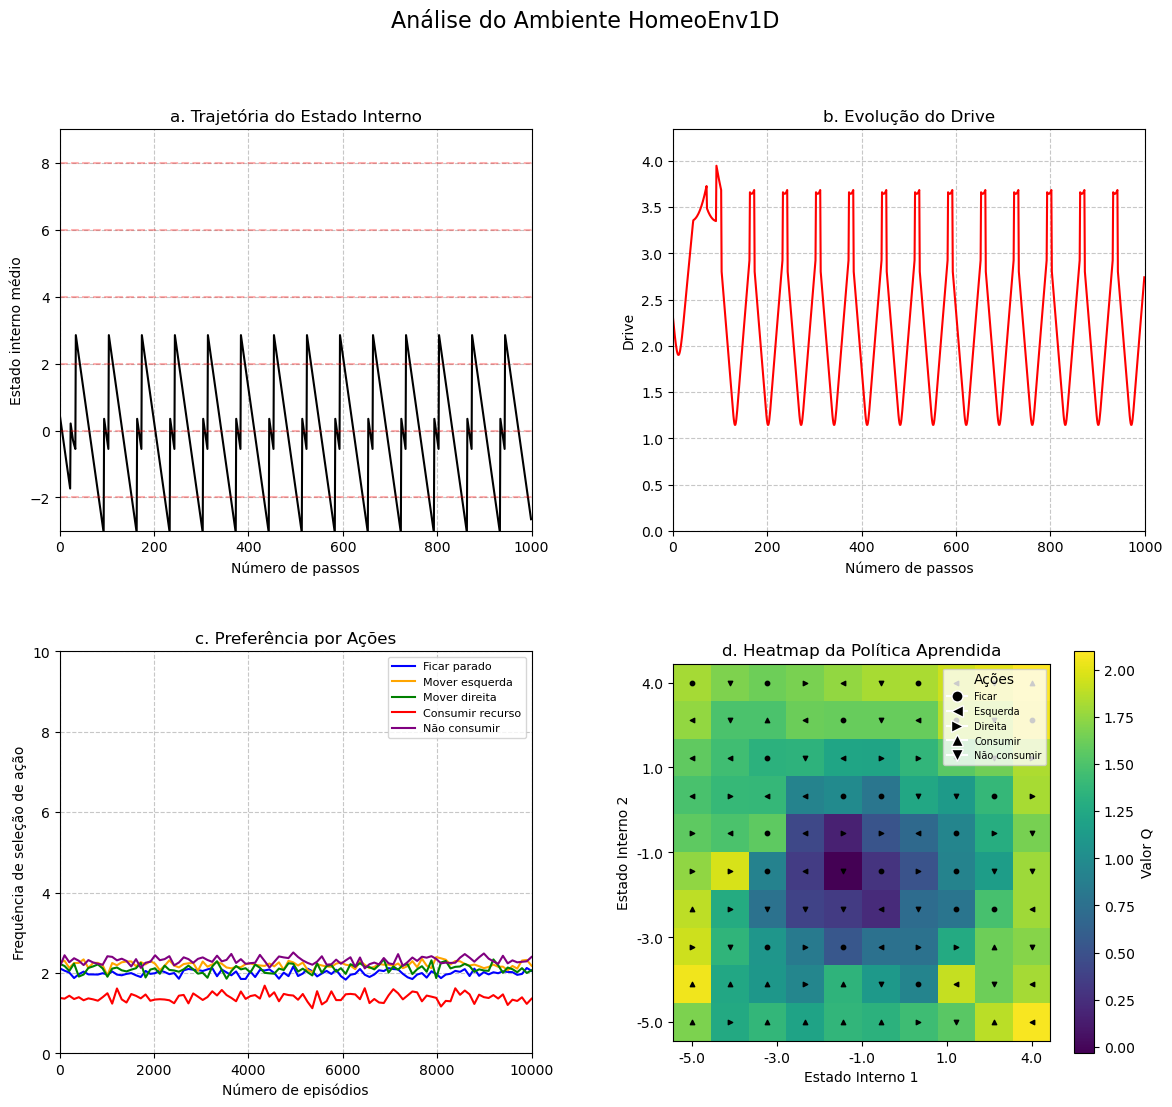
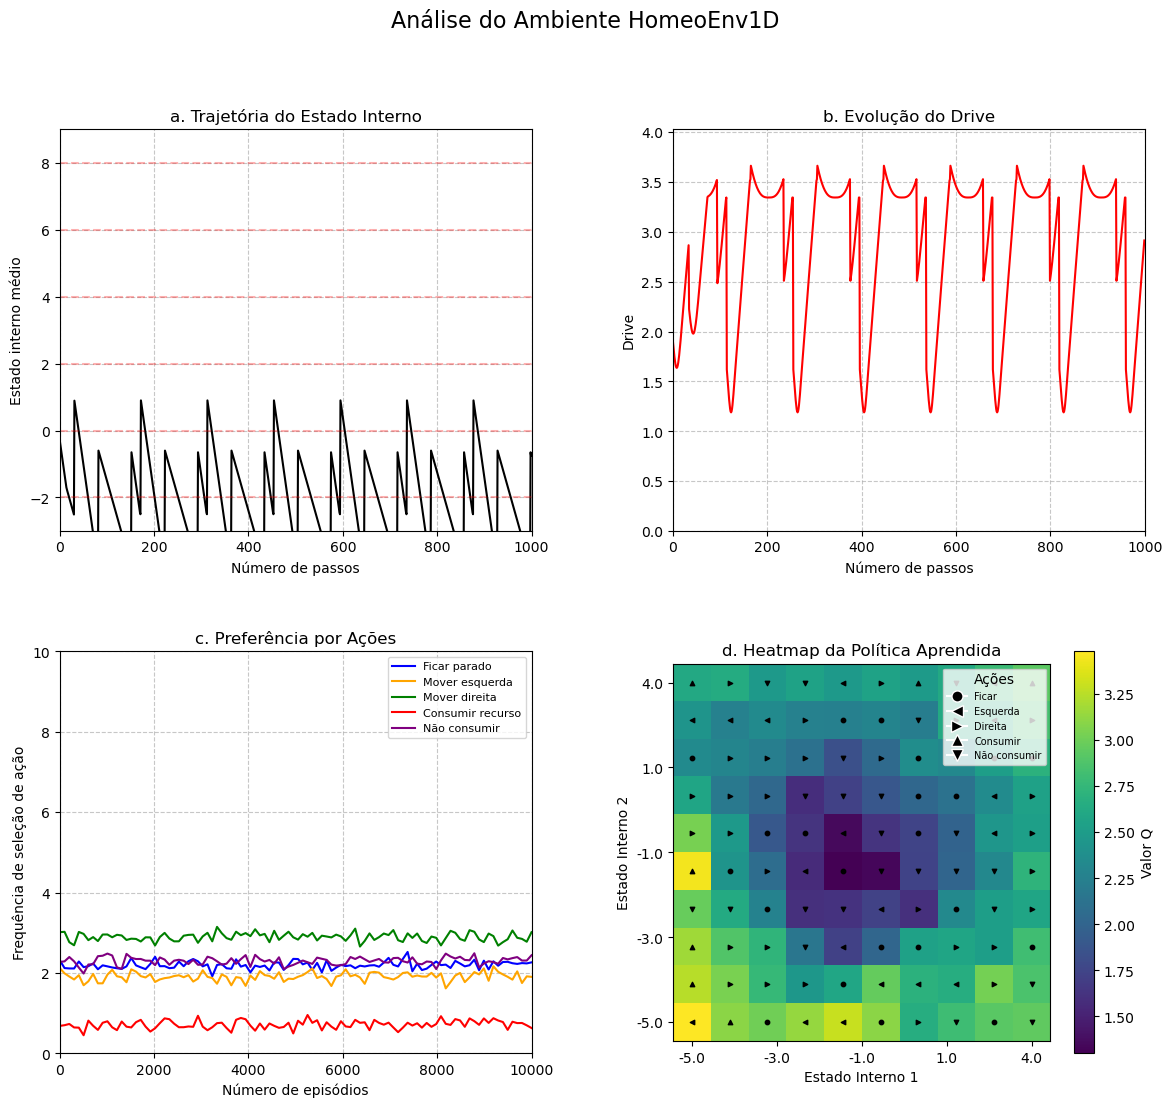
✨ Masking for consomption actions

diff --git a/src/custom_env/one_dimensional.py b/src/custom_env/one_dimensional.py
@@ -84,6 +84,22 @@ class HomeoEnv1D:
         self.agent_position = 0
         self.steps = 0
         return self.current_state, {}
+    
+    def compute_action_mask(self):
+        """
+        Returns a boolean mask of valid actions.
+        True means the action is valid.
+        """
+        mask = np.ones(len(self.action_space), dtype=np.bool)
+
+        # Check if the agent is on a resource position
+        if self.agent_position not in self.resources_position:
+            # Mask out 'consume resource' (action 3)
+            mask[3] = 0
+            mask[4] = 0 
+
+        return mask
+    
 
     def step(self, action):
         if action == 1:
@@ -113,8 +129,8 @@ class HomeoEnv1D:
         threshold = self._outcome / 2
         terminated = self.drive.has_reached_optimal(self.current_state, threshold)
 
-        if terminated:
-            print("Optimal state reached!")
+        # if terminated:
+        #     print("Optimal state reached!")
 
         observation = self.current_state
 
@@ -128,7 +144,7 @@ class HomeoEnv1D:
         self.steps += 1
         truncated = self.steps >= 1000
 
-        return observation, reward, terminated, truncated, {}
+        return observation, reward, terminated, truncated, {"action_mask": self.compute_action_mask()}
 
     # def select_action(self, state_idx, temperature=1.0):
     #     q_values = self.q_table[state_idx]
@@ -136,13 +152,26 @@ class HomeoEnv1D:
     #     exp_q = np.exp(q_values / max(temperature, 1e-6))
     #     probabilities = exp_q / np.sum(exp_q)
     #     return np.random.choice(self.action_space, p=probabilities)
-    def select_action(self, state_idx, epsilon=0.1):
-    # With probability epsilon, choose a random action for exploration
+    def select_action(self, state_idx, epsilon=0.1, mask=None):
+        """
+        Selects an action using epsilon-greedy with optional action mask.
+        """
+        if mask is None:
+            mask = np.ones(len(self.action_space), dtype=np.bool)
+
+        valid_actions = np.where(mask)[0]
+
         if np.random.random() < epsilon:
-            return np.random.choice(self.action_space)
-        # Otherwise, choose the best action (exploitation)
+            # Explore only from valid actions
+            return np.random.choice(valid_actions)
         else:
-            return np.argmax(self.q_table[state_idx])
+            # Exploit: choose the best valid action
+            q_values = self.q_table[state_idx]
+            # Mask invalid actions by setting them to -inf
+            masked_q_values = np.full_like(q_values, -np.inf)
+            masked_q_values[mask] = q_values[mask]
+            return np.argmax(masked_q_values)
+
 
     def update_q_table(self, state_idx, action, reward, next_state_idx):
         q_predict = self.q_table[state_idx][action]
@@ -171,7 +200,8 @@ class HomeoEnv1D:
                             return rewards_per_episode  # Retorna os resultados parciais
                 
                 # Seleciona e executa a ação
-                action = self.select_action(state_idx, self.epsilon)
+                mask = self.compute_action_mask()
+                action = self.select_action(state_idx, self.epsilon, mask)
                 next_state, reward, done, truncated, _ = self.step(action)
                 next_state_idx = self.discretize_state(next_state)
 
@@ -900,6 +930,7 @@ class HomeoEnv1D:
         # Coleta dados para num_steps ou até terminar
         for step in range(num_steps):
             # Seleciona a melhor ação de acordo com a Q-table
+            mask = self.compute_action_mask()
             action = np.argmax(self.q_table[state_idx])
             
             # Executa a ação
